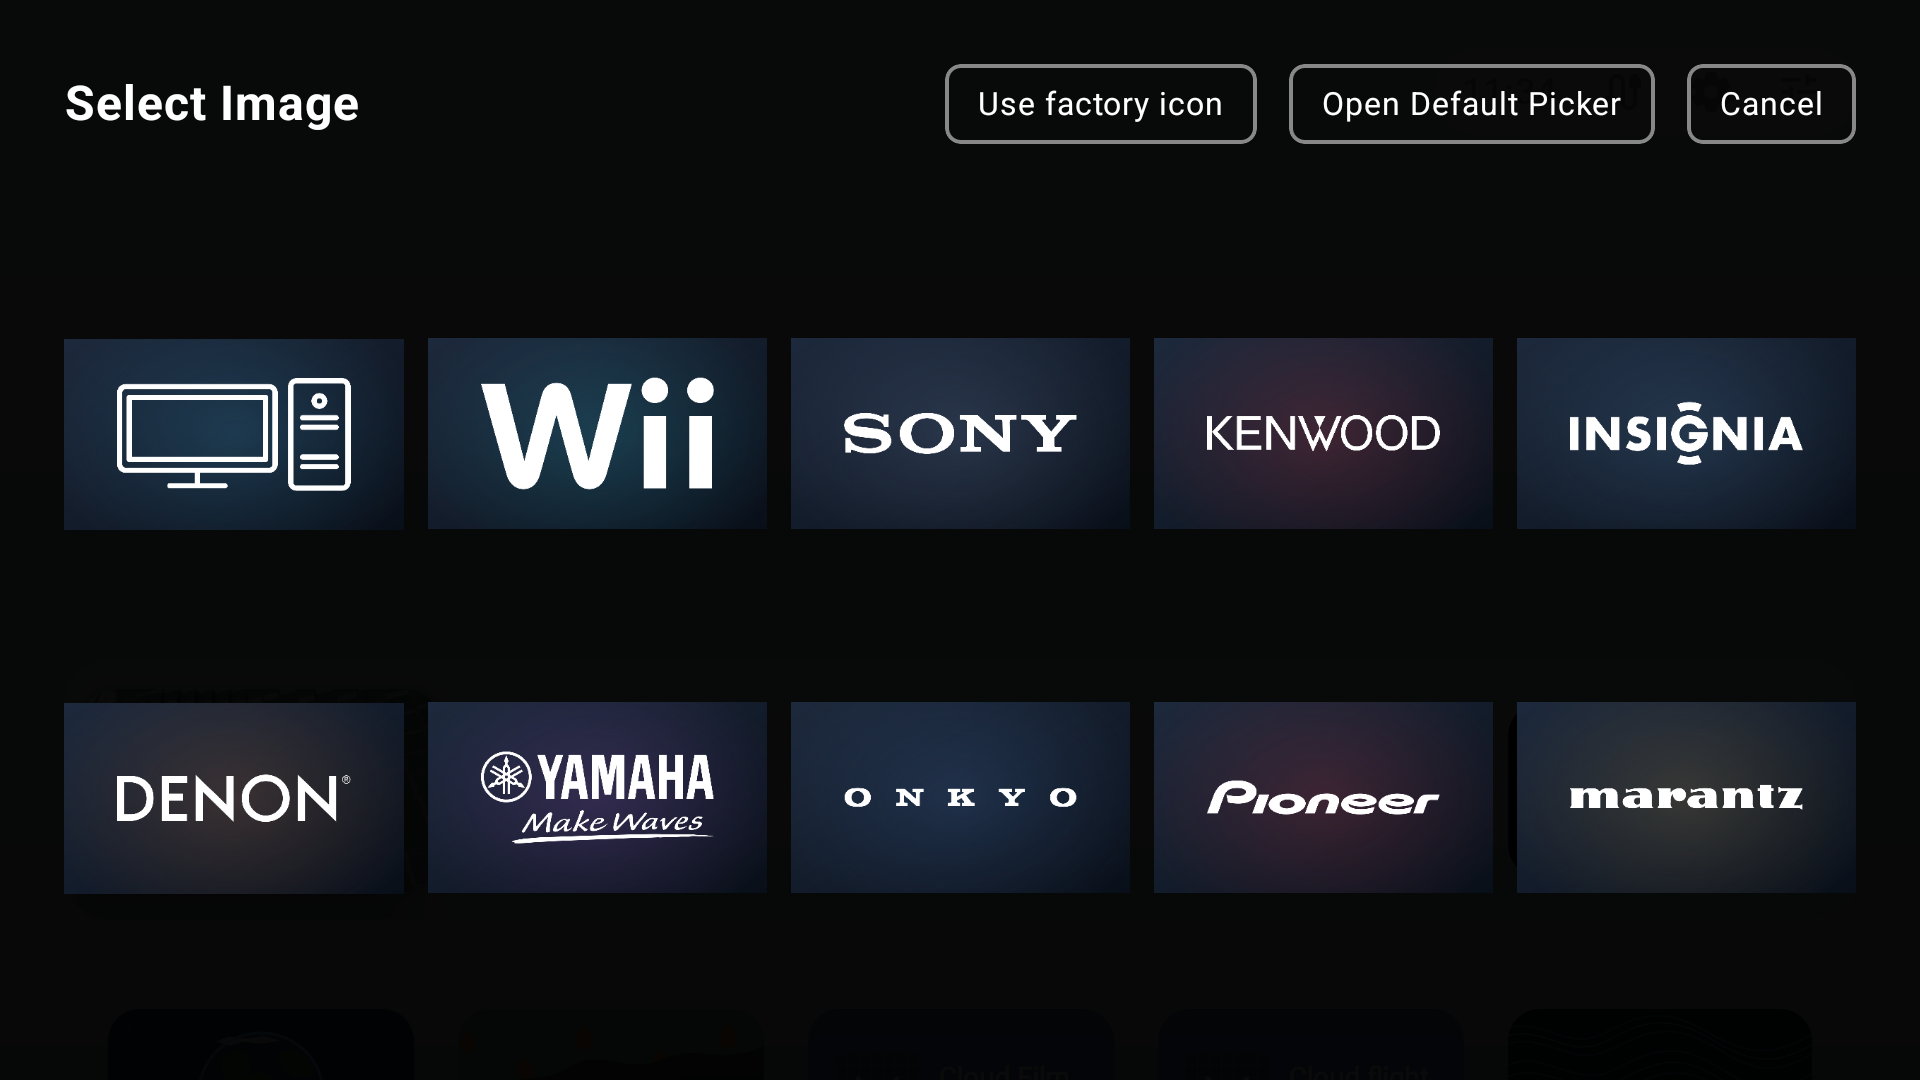
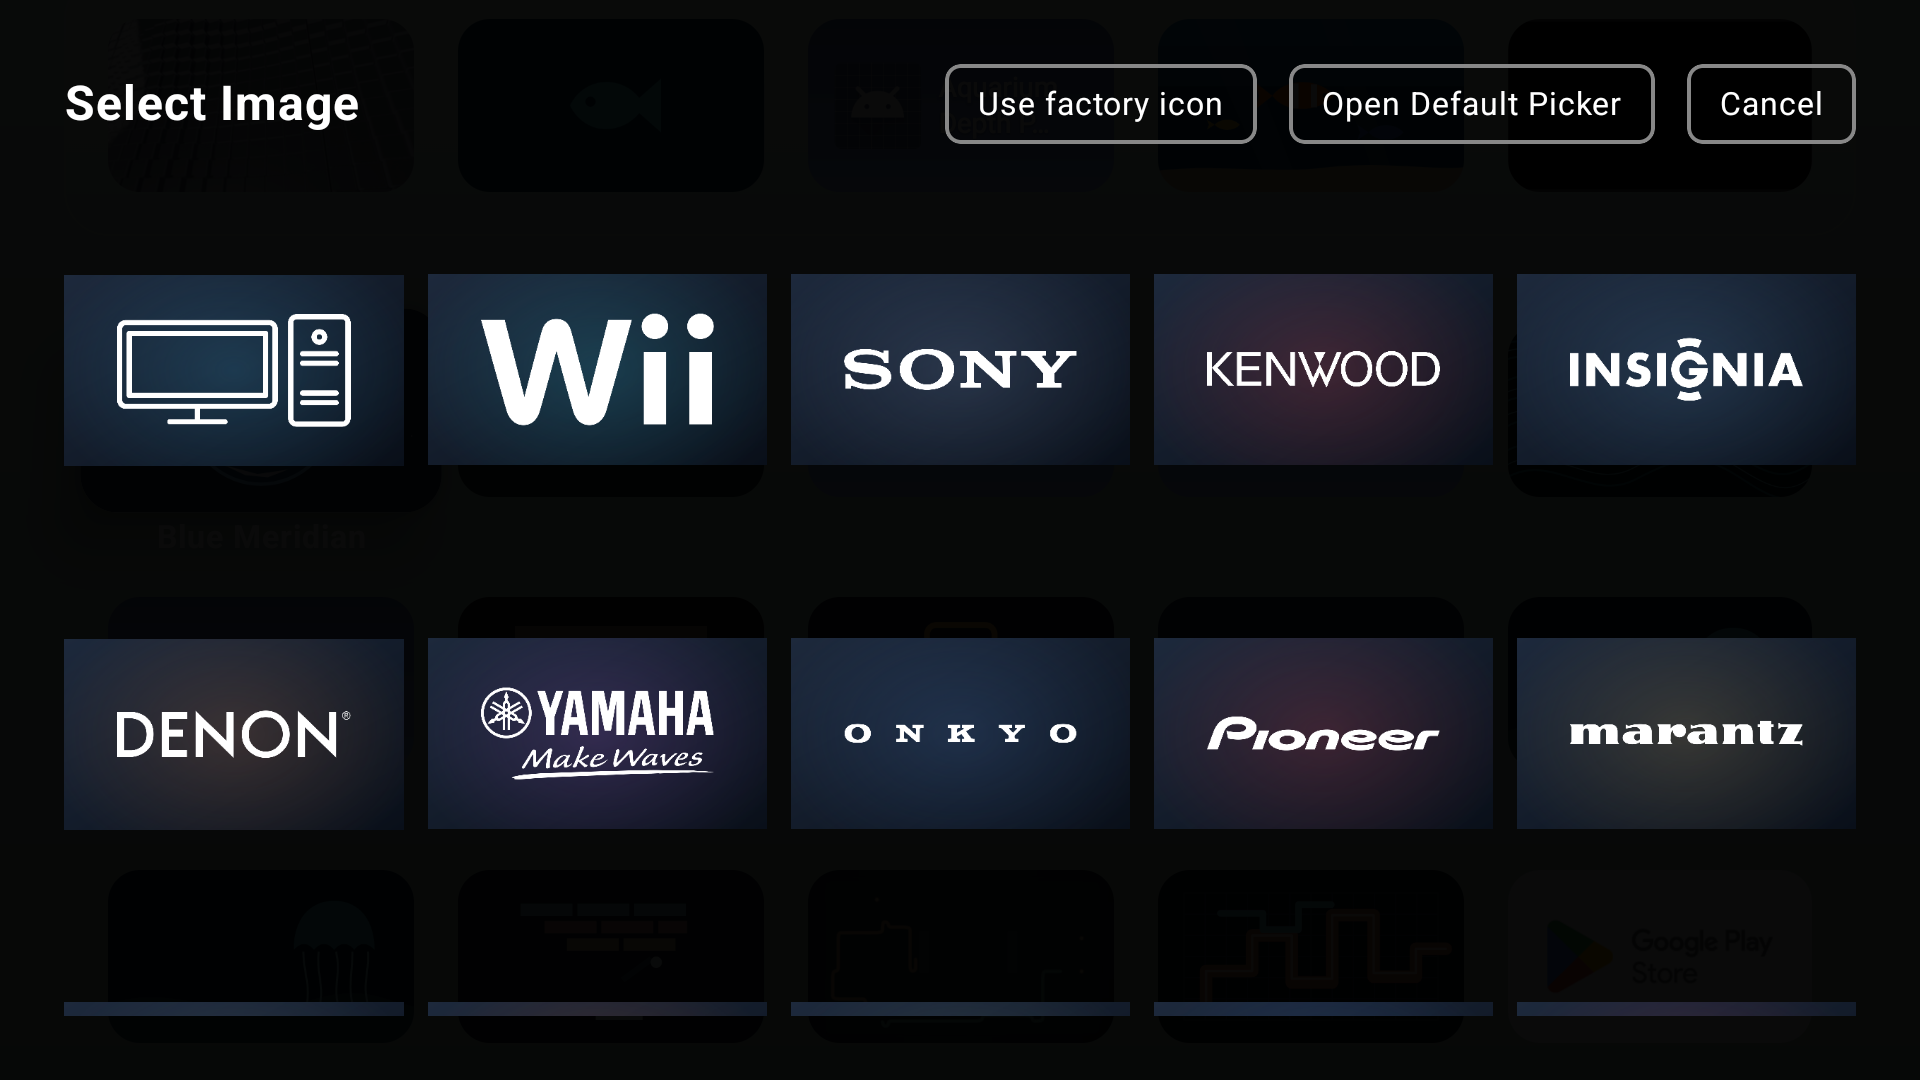
Document equipment customization and network settings

Changed region(s): [[0.0312, 0.2444, 0.9688, 0.4889], [0.0312, 0.5806, 0.9688, 0.825], [0.0312, 0.9167, 0.9688, 0.9472]]

diff --git a/docs/releases/v1.17.0.md b/docs/releases/v1.17.0.md
@@ -1,6 +1,6 @@
 # Fire TV UI 1.17.0
 
-Personalize connected equipment with audio brand artwork, editable input names and individual factory resets.
+Personalize connected equipment with audio brand artwork, editable input names and individual factory resets. Network and IP settings now show the local connection and open the TV's network configuration.
 
 ## Upgrade guide
 
@@ -27,14 +27,17 @@ None. Runtime requirements, global icon-pack choices and existing presentation d
 * Use factory icon restores one tile without disabling the icon pack for other tiles. Use theme icon returns it to the global icon choice.
 * Input tiles support custom labels and Use factory name. Renaming preserves the input target, artwork, order and visibility.
 
+* Settings > Network and IP shows local IP addresses, prefixes, gateways and DNS, with VPN connections identified separately. Configure IP in TV settings opens the supported native network screen. Router reservations still require router configuration; this release does not claim or silently assign a fixed address.
+
 ## Minor changes and fixes
 
+* Long tile menus scroll so input naming and reset actions remain visible with remote navigation.
 * The image picker's buried removal action now uses the same factory-icon wording. Wide logos fit completely inside picker thumbnails instead of being cropped.
 * Saved setups and portable backups retain input labels and individual factory-icon preferences. Applying a setup without icons preserves current artwork choices.
 * The bundled icon installer accepts the expanded manifest while retaining file validation, checksums and preservation of existing user files.
 
 ## Verification
 
-The local suite passed 77 tests, with six opt-in native checks skipped. Separate Android TV API 34 checks exercised brand selection, individual factory artwork under an active icon pack, theme restoration and full-width picker previews. Physical Fire TV checks exercised input renaming and the scrolling input menu. Final combined-build verification is recorded in the device verification guide.
+The local suite passed 78 tests, with six opt-in native checks skipped. Separate Android TV API 34 checks exercised brand selection, individual factory artwork under an active icon pack, theme restoration and full-width picker previews. Physical Fire TV checks exercised input renaming, factory-name restoration and the scrolling input menu. The combined Network and IP screen passed actual data display, refresh, native settings handoff and Back on Android TV API 34. No network configuration was changed. See the [verification guide](https://github.com/jeremykenedy/fire-tv-ui/blob/v1.17.0/docs/verification.md) for scope and limits.
 
 [Icon and input guide](https://github.com/jeremykenedy/fire-tv-ui/blob/v1.17.0/docs/icons.md) | [All changes](https://github.com/jeremykenedy/fire-tv-ui/compare/v1.16.0...v1.17.0)

diff --git a/docs/verification.md b/docs/verification.md
@@ -2,9 +2,9 @@
 
 ## Fire TV UI 1.17.0, version code 78
 
-The signed candidate passed 77 host tests, with six opt-in native tests skipped. Focused checks cover input-name validation and isolation, unchanged input identity, individual factory/theme artwork, saved setup retention and portable backups.
+The signed candidate passed 78 host tests, with six opt-in native tests skipped. Focused checks cover input-name validation and isolation, unchanged input identity, individual factory/theme artwork, saved setup retention and portable backups.
 
-Android TV API 34 native checks selected audio brand artwork, restored a tile's original artwork while a global icon pack remained active, returned the tile to that pack, and inspected the full-width logo picker. Physical Fire TV checks are in progress for input renaming and factory-name restoration. These results do not establish physical remote Home routing or Alexa equipment control.
+Android TV API 34 native checks selected audio brand artwork, restored a tile's original artwork while a global icon pack remained active, returned the tile to that pack, and inspected the full-width logo picker. Physical Fire TV checks renamed HDMI 3 to Sony Receiver, restored HDMI 3, and verified remote focus scrolling to both naming actions. The original visibility, artwork and other settings were restored. The combined build's Network and IP page showed real Ethernet addresses, prefix lengths, gateway and DNS on Android TV API 34; Refresh, native network-settings handoff and Back passed without changing network settings. These results do not establish physical remote Home routing or Alexa equipment control.
 
 ## Fire TV UI 1.16.0, version code 77
 

diff --git a/README.md b/README.md
@@ -84,6 +84,7 @@ Choose **Startup and protection** in Settings to enable or disable Fire TV UI as
 | Local protection | Preserve saved choices and optionally block known Amazon updater traffic. | [Protection](docs/device-controls.md#startup-and-protection) |
 | App updates | Check stable releases and confirm verified replacement installs. | [Updates](docs/updates.md) |
 | Native TV tiles | Open Amazon Home or the built-in Live TV guide on supported Fire TVs. | [Native tiles](docs/factory-home.md) |
+| Network and IP | View local connection details and open the TV's IP configuration. | [Network settings](docs/device-controls.md#network-and-ip) |
 | Advanced diagnostics | Inspect device status and save a local report with explicit measurement limits. | [Diagnostics](docs/device-controls.md#advanced-diagnostics) |
 | Persistent backups | Save launcher preferences on the TV or transfer a backup from the CLI. | [Backups](docs/device-controls.md#persistent-tv-backups) |
 

diff --git a/docs/screenshots.md b/docs/screenshots.md
@@ -10,6 +10,9 @@ Native Android TV API 34 and Fire TV captures from version code 78. The picker f
     <td><img src="../art/screenshots/tile-icon-reset-ui117-code78-api34.png" alt="Native tile menu with Use factory icon and Use theme icon"><br>Individual icon reset</td>
     <td><img src="../art/screenshots/input-name-reset-ui117-code78-firetv.png" alt="Fire TV input menu with Rename input and Use factory name visible"><br>Input name and factory reset</td>
   </tr>
+  <tr>
+    <td><img src="../art/screenshots/network-ip-ui117-code78-api34.png" alt="Network and IP page showing actual emulator connection details and native configuration action"><br>Network and IP</td>
+  </tr>
 </table>
 
 
